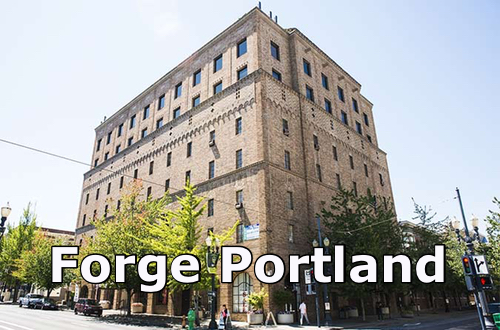
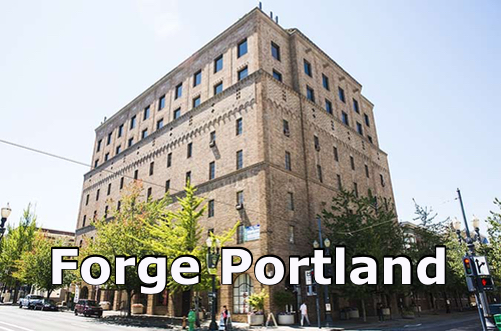
changed the forge portland pic because that wasn't working for some reason

diff --git a/index.html b/index.html
@@ -173,7 +173,7 @@
         <div class="container">
             <div class="row">
                 <div class="col-lg-6">
-                    <img class="img-responsive forgePicture" src="img/ForgePortland2.jpg" alt="">
+                    <img class="img-responsive forgePicture" src="img/ForgePortland1.jpg" alt="">
                 </div>
                 <div class="col-lg-6 ">
                   <!--   <hr class="section-heading-spacer"> -->
